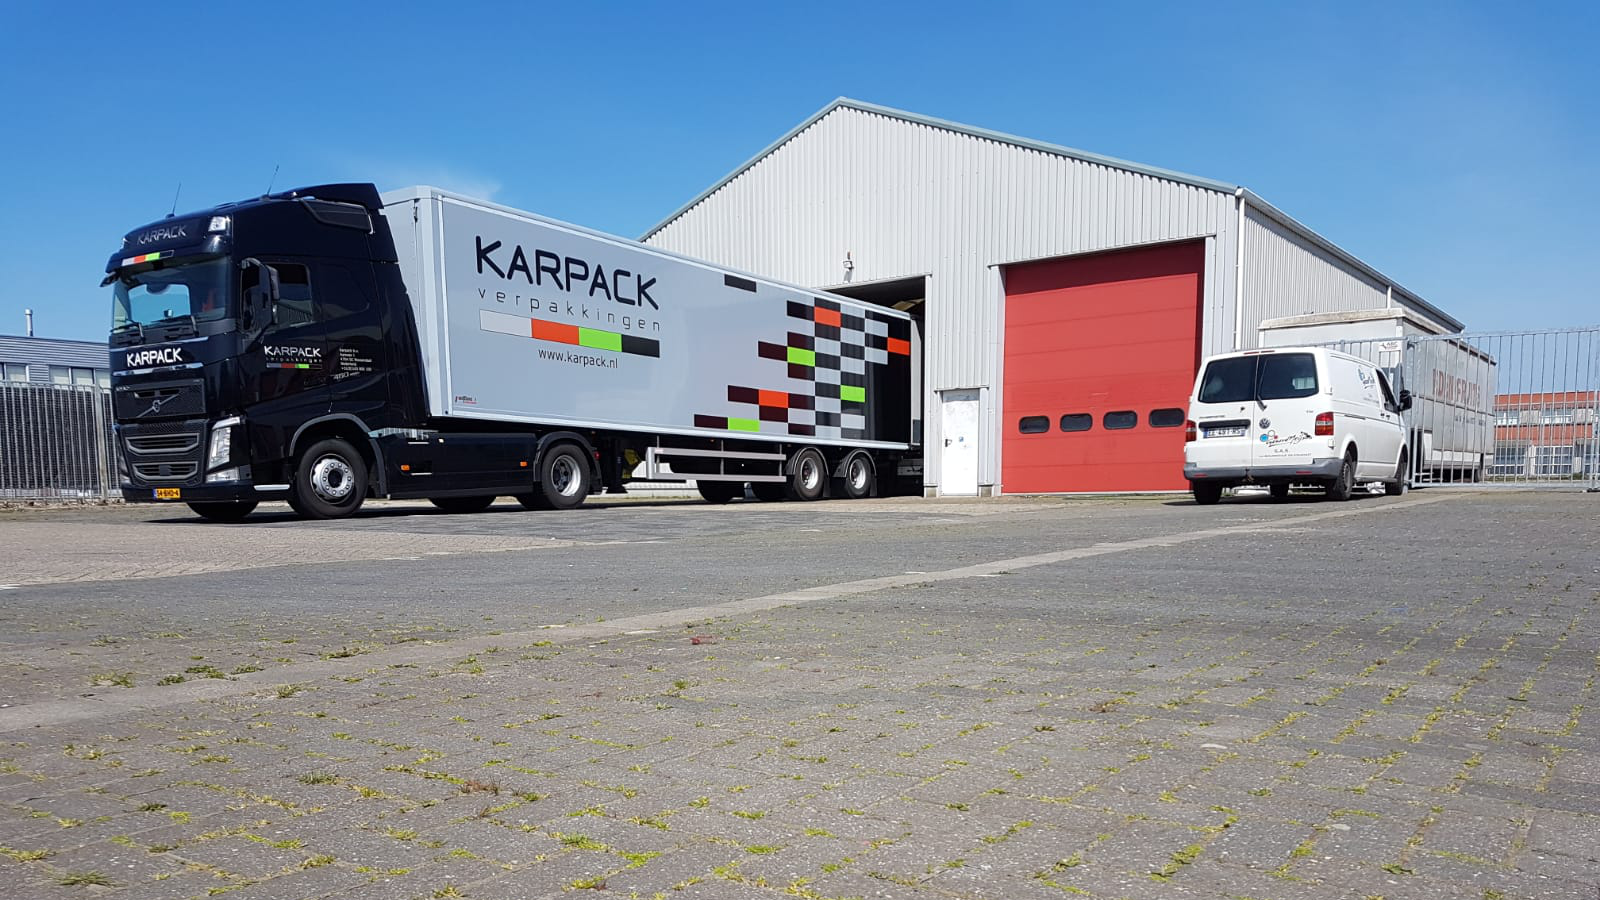
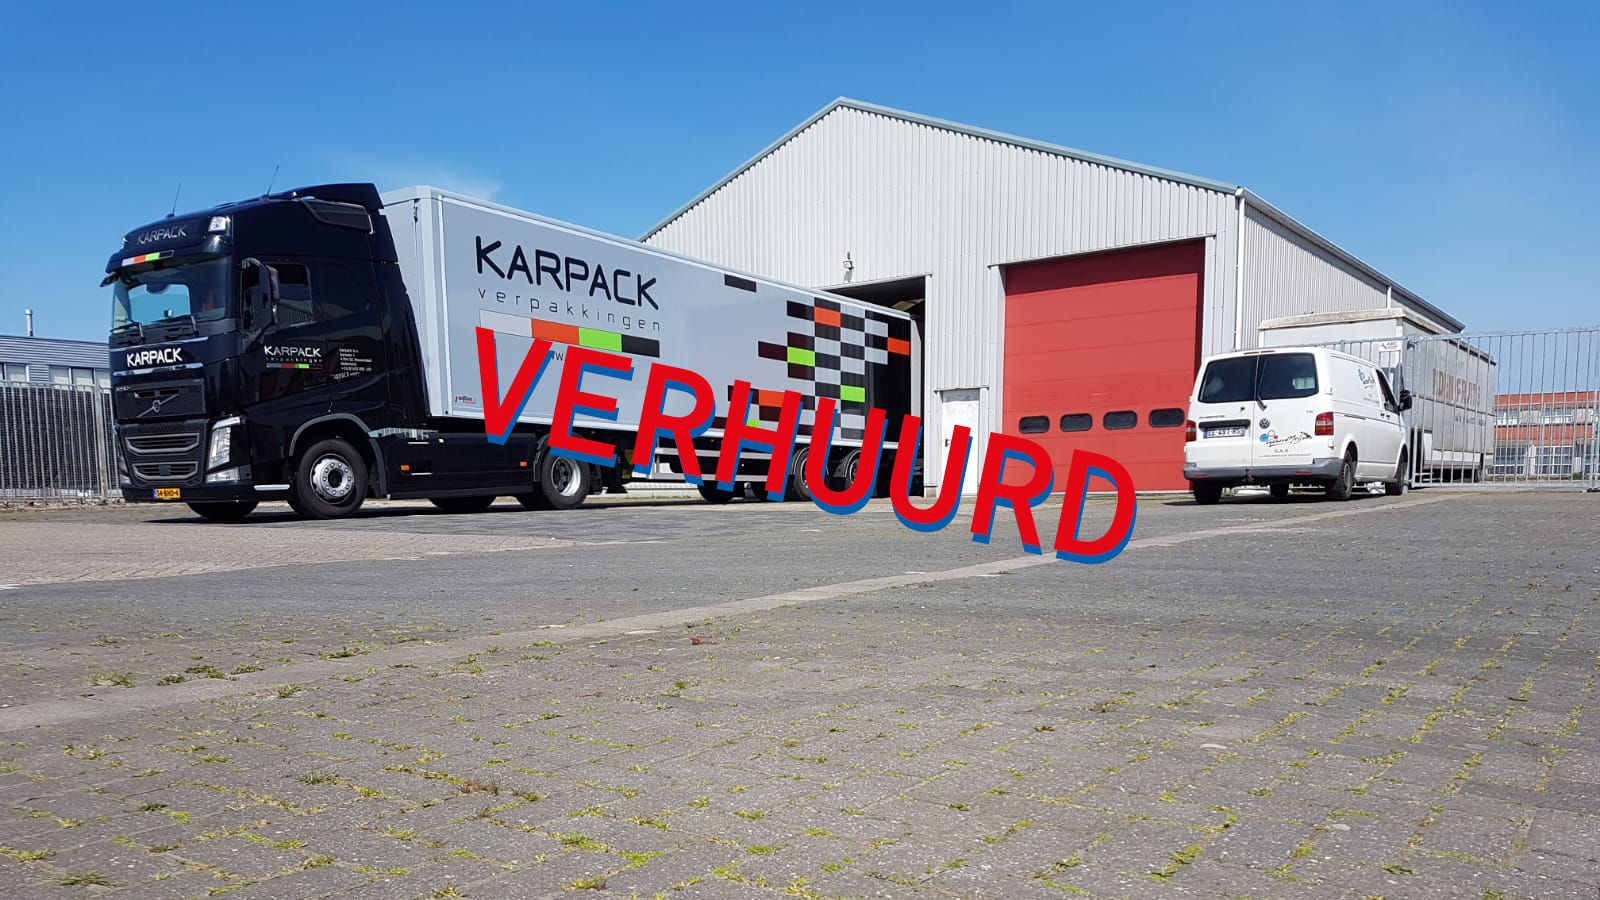
content update

Changed region(s): [[0.2812, 0.3422, 0.7188, 0.6222]]

diff --git a/css/stylesheet.css b/css/stylesheet.css
@@ -298,10 +298,10 @@ main {
     background-image: url("../images/Verhuur/Verhuur_1.png");
 }
 #verhuurItems .secondImg {
-    background-image: url("../images/Verhuur/Verhuur_3.png");
+    background-image: url("../images/Verhuur/Verhuur_4.png");
 }
 #verhuurItems .thirdImg {
-    background-image: url("../images/Verhuur/Verhuur_5.png");
+    background-image: url("../images/Verhuur/Verhuur_6.png");
 }
 
 /*parrallax for verkoop*/
